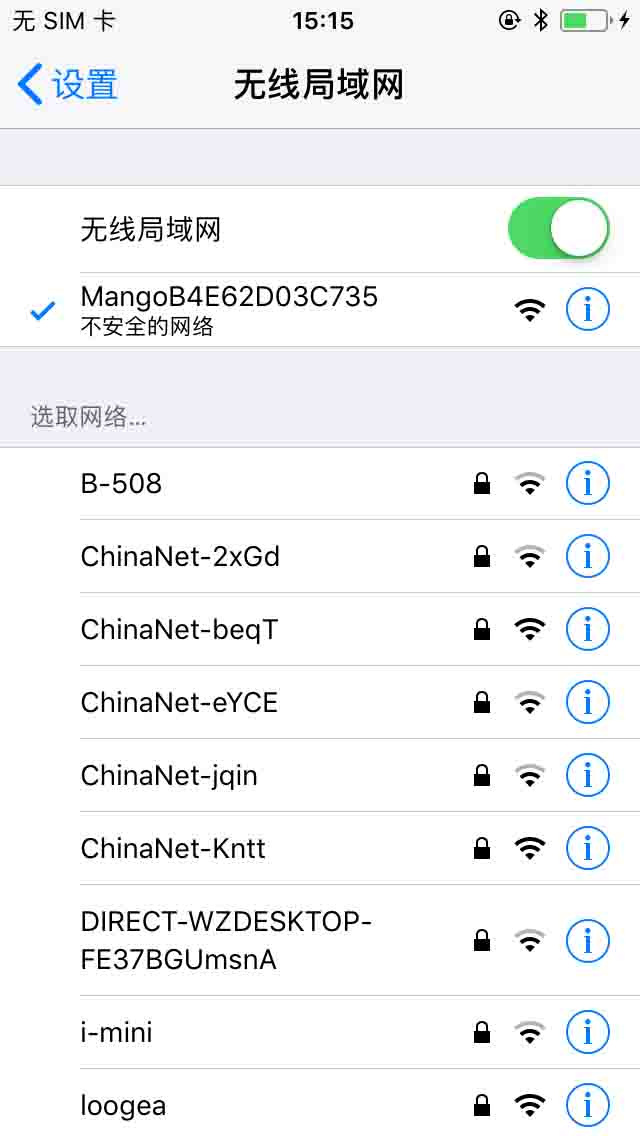
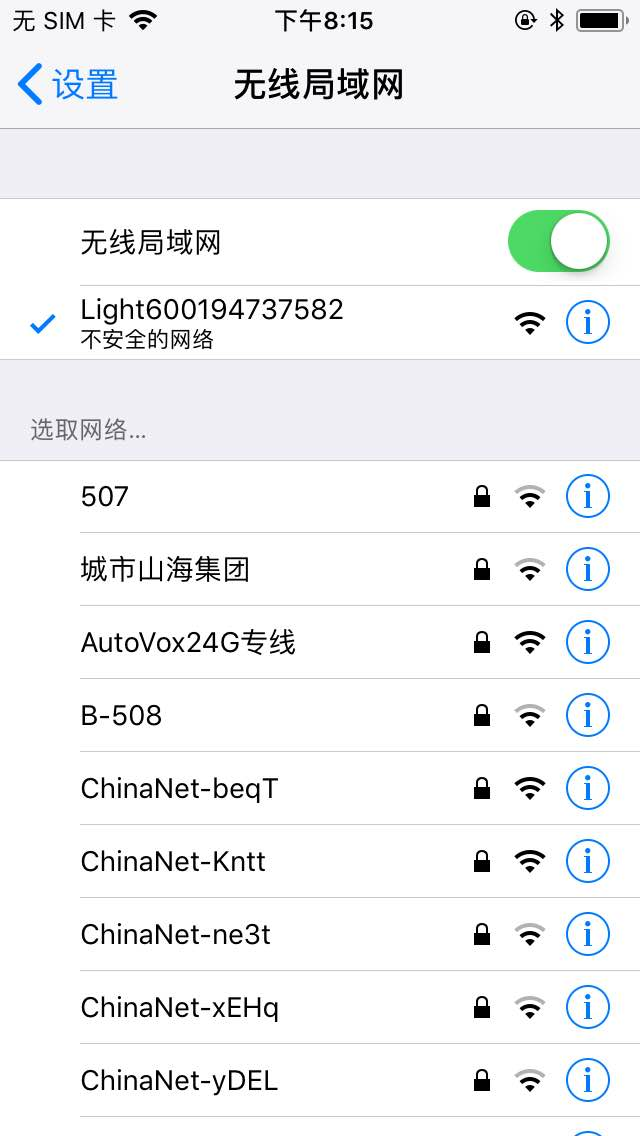
修改Light

diff --git a/cn/help.html b/cn/help.html
@@ -133,7 +133,7 @@
 				</ul>
 				<ol>
 					<li>
-						灯带接上电源，并且亮灯，手机搜索并连接热点wifi：Mangoxxxxxxxxxxxx。
+						灯带接上电源，并且亮灯，手机搜索并连接热点wifi：Lightxxxxxxxxxxxx。
 					</li>
 					<li>
 						打开APP，点击直接连接设备进行控制 ，即可直接控制。
@@ -151,7 +151,7 @@
 				</ul>
 				<ol>
 					<li>
-						灯带接上电源，并且亮灯，手机搜索并连接热点wifi：Mangoxxxxxxxxxxxx。
+						灯带接上电源，并且亮灯，手机搜索并连接热点wifi：Lightxxxxxxxxxxxx。
 					</li>
 					<li>
 						打开APP，点击设定，进入选择WiFi界面 ，输入路由器的正确的账号及密码(确保网络可用)，点击连接。

diff --git a/help.html b/help.html
@@ -133,7 +133,7 @@
 						Open the APP and click "Connect the device directly for control" and you can directly control it.
 					</li>
 				</ol>
-				<img class="screenshot" src="images/help/settings_wifi.jpg" />
+				<img class="screenshot" src="images/help/settings_wifi.png" />
 				<img class="screenshot" src="images/help/app_connect.jpg" />
 			</div>
 			
